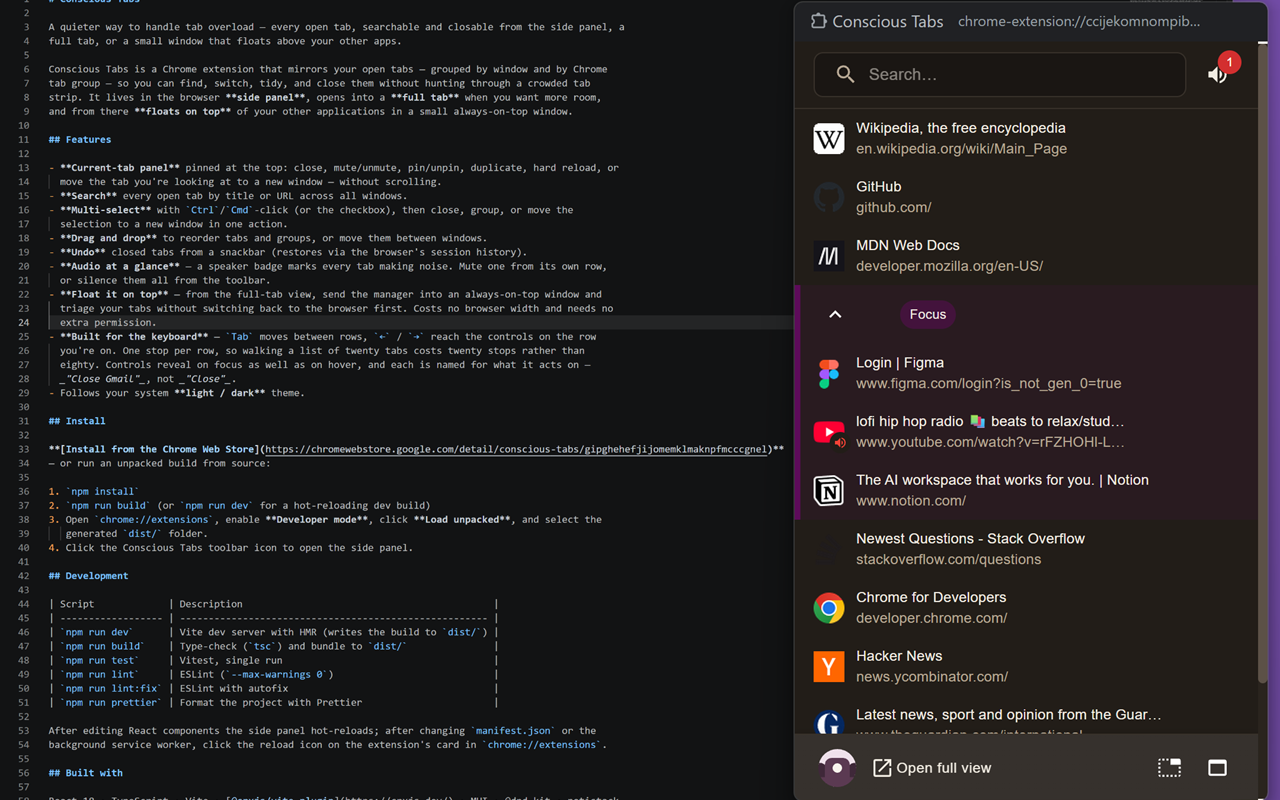
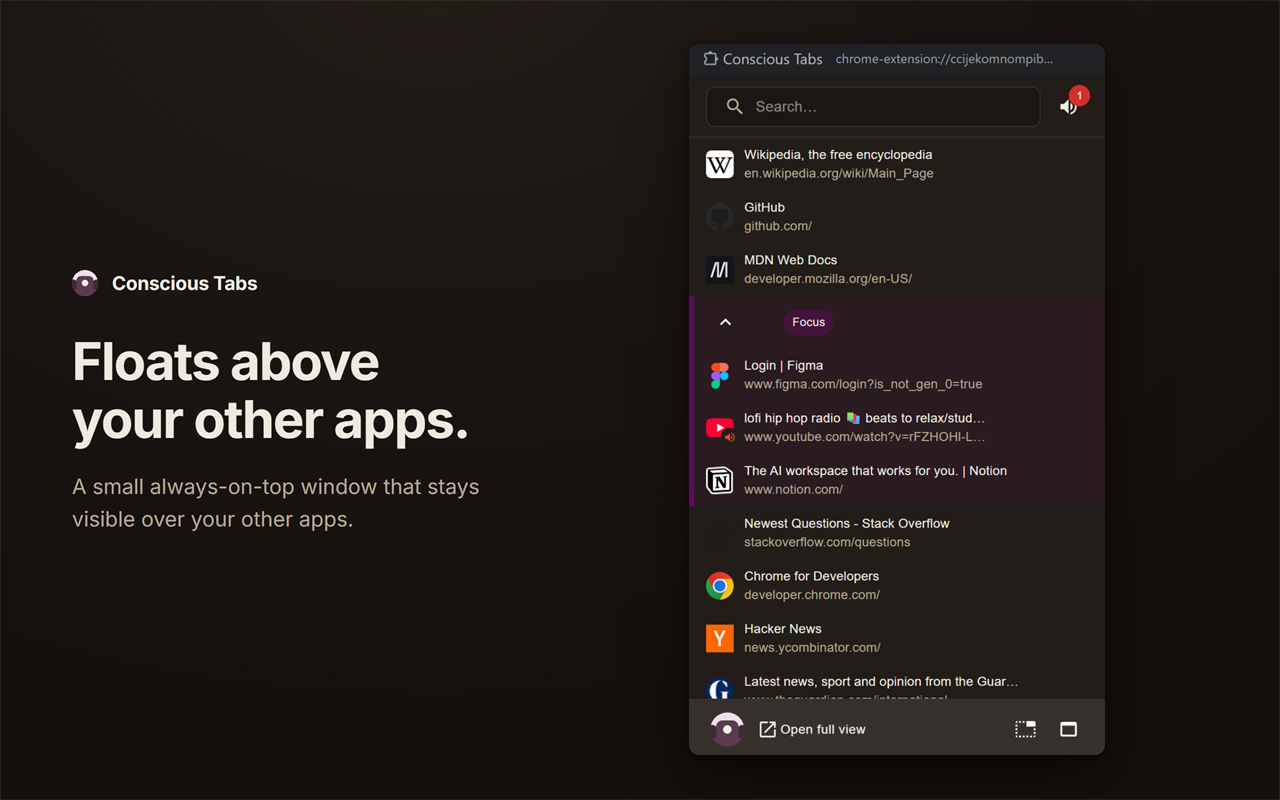
Composite the float screenshot into the house style
The first version was a raw desktop crop, and next to the other five it looked
like a different product. They are not screenshots: each is a real capture
placed on the branded canvas with the wordmark, a two-line headline and a
two-line subtitle, the panel right-aligned in a fixed vertical band.

So this one is built the same way. The float was photographed on a 3840x2160
display, cropped to the window alone, and set on the dark canvas at the same
coordinates 05-dark-mode uses — measured out of that file rather than guessed,
including the panel's band and the sampled background tones. Rendered at 2x
through headless Chrome and downscaled, so the type is crisp rather than
resampled.

The panel sits wider than in the other five because the float genuinely is
wider than the side panel. That is the subject of the picture, so it stays.

diff --git a/store-listing.md b/store-listing.md
@@ -115,19 +115,23 @@ emulated) and composited onto the branded frame:
 
 **06-floating is the one that cannot be faked**, which is why it was the last to
 exist. Floating on top is the capability nobody can guess from a side panel, and
-the only image that argues for it is the float genuinely sitting above something
-that is not a browser. Rendering the panel at 400×640 in a tab looks close and
-proves nothing: no Picture-in-Picture window chrome, no shadow, and nothing
-behind it to be on top of.
+only a real always-on-top window over a real desktop demonstrates it. Rendering
+the panel at 400×640 in a tab looks close and proves nothing: no
+Picture-in-Picture window chrome, no shadow, and nothing behind it to be on top
+of.
 
-Captured 2026-09-25 from a 3840×2160 display and cropped to 1280×800, so it is
-downscaled rather than stretched. If it is ever retaken, the things that had to
-be fixed between the first attempt and the last one: close any open menu in the
-float, make the window behind it taller than the float so no empty desktop shows
-beneath, keep the manager out of the frame twice (a browser window behind it
-showing the same list reads as the product competing with itself), and turn off
-the editor's breadcrumbs — the file path carries a username, and at 1280 wide it
-is legible.
+Made 2026-09-25 the same way as the other five — a real capture, composited into
+the branded frame rather than shipped as a raw desktop screenshot. The float was
+photographed on a 3840×2160 display, cropped to the window alone, then placed on
+the dark canvas with the wordmark, headline and subtitle at the same coordinates
+05-dark-mode uses. Rendered at 2× and downscaled, so the type is crisp.
+
+Four things had to be fixed before the capture was usable, recorded so a retake
+does not rediscover them: close any menu left open in the float; make the window
+behind it taller than the float, or empty desktop shows beneath; keep a second
+copy of the manager out of frame, since a browser window behind showing the same
+list reads as the product competing with itself; and turn off the editor's
+breadcrumbs — the file path carries a username, and it is legible at 1280 wide.
 
 Optional promo assets (dashboard only, not required):
 
